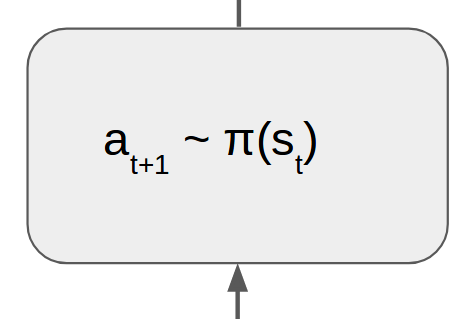
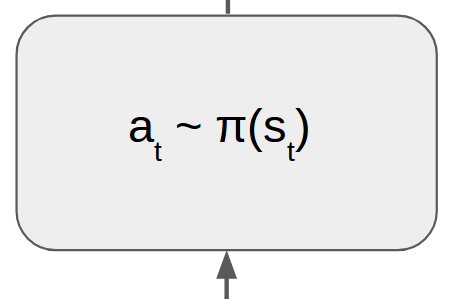
Moved sample posts, _almost_ finished first post and changed theme slightly

Changed region(s): [[0.0308, 0.0, 0.9846, 1.0], [0.3692, 0.3612, 0.6769, 0.5418], [0.2154, 0.3913, 0.3692, 0.5719]]

diff --git a/_includes/navbar.html b/_includes/navbar.html
@@ -34,12 +34,12 @@
         {% if site.theme_settings.portfolio %}
         <li class="separator">
             |
-        </li>
-        <li>
-            <a class="clear" href="{{ site.url }}{{ site.baseurl }}/portfolio">
-                Portfolio
-            </a>
-        </li>
+  <! -- </li>     -- >
+  <! --      <li>     -- >
+  <! --          <a class="clear" href="{{ site.url }}{{ site.baseurl }}/portfolio">     -- >
+  <! --              Portfolio     -- >
+  <! --          </a>     -- >
+  <! --      </li>     -- >
         {% endif %}
         {% if site.theme_settings.search %}
         <li class="separator">

diff --git a/_sass/includes/_navbar.scss b/_sass/includes/_navbar.scss
@@ -19,8 +19,8 @@
     }
 
     .avatar {
-        height: 3em;
-        width: 3em;
+        height: 5.5em;
+        width: 5em;
         float: left;
         margin-top: -13px;
         border-radius: 0.2em;
@@ -30,10 +30,10 @@
     }
 
     .site-title {
-        float: left;
+        float: center;
         font-weight: bold;
-        font-size: 1em;
-        line-height: 1.5;
+        font-size: 2em;
+        line-height: 0.5;
     }
 
     nav {

diff --git a/assets/css/style.scss b/assets/css/style.scss
@@ -29,3 +29,7 @@ figure figcaption {
    width: 50%; 
    height: 50%; 
 }
+
+.centerfigure {
+    text-align: center;
+}

diff --git a/_posts/2018-04-06-how-unity-ml-agents-approaches-markov-decision-processes.md b/_posts/2018-04-06-how-unity-ml-agents-approaches-markov-decision-processes.md
@@ -5,19 +5,20 @@ tags: [Unity, Reinforcement Learning, Markov Decision Processes]
 ---
 
 
-<p style="text-align: center; font-style: italic;">This article was written for Unity ML-agents v0.3</p>
 
-At the end of 2017, Unity released their own [module for reinforcement learning](https://blogs.unity3d.com/2017/09/19/introducing-unity-machine-learning-agents/). They call it Unity ML-agents, but really it's just about reinforcement learning agents. If you know anything about reinforcement learning, you know that the environments where agents act are modelled as [Markov Decision Processes](https://en.wikipedia.org/wiki/Markov_decision_process). Leaving the Markov property aside, the idea of an MDP is simple. There is an environment with a set of states and possible actions that transition one state to another. At every timestep $$t$$, the agent takes one of these actions which modify the environment and in turn recieves an immediate reward linked to the state and action. The goal of the agent is to maximize the cummulative reward that it recieves as it interacts with the environment.
+At the end of 2017, Unity released their own [module for reinforcement learning](https://blogs.unity3d.com/2017/09/19/introducing-unity-machine-learning-agents/). They call it Unity ML-agents, but really it's just about reinforcement learning agents. If you know anything about reinforcement learning, you know that the environments where agents act are modelled as [Markov Decision Processes](https://en.wikipedia.org/wiki/Markov_decision_process). Leaving the Markov property aside, the idea of an MDP is simple. There is an environment with a set of states and possible actions that transition one state to another. At every timestep $$t$$, the agent takes one of these actions which modify the environment and in turn recieves an immediate reward linked to that action and the state the environment was in. The goal of the agent is to maximize the cummulative reward that it recieves as it interacts with the environment.
 
-However, Unity doesn't present us with an exact concept of an MDP, at least not too clearly. This ultimately works in their favour, as it allows them to add a few levels of abstraction to the basic MDP. To name a few:  MDPs are inherently single agent (another one?). They also provide a nice enough interface to switch the controll (the brain) of an agent to the Player, the built in Unity code or to external processes. This is precisely how they allow to debug an AI using user testing, to train it with external processes, and to embed it inside the game. Pretty neat.
+<p style="text-align: center; font-style: italic;">Disclaimer: This article was written for Unity ML-agents v0.3</p>
 
-On the left hand side of the diagram below we have the classical graphical representation of an MDP. On the right hand side, we have the framework that Unity presents us with. Even though these two concepts are really similar, the transition from one to the other wasn't 100% clear to me at first. This article investigates exactly how one relates to one another. Disclaimer: this is a high-level  discussion and the level of technical depth won't be consistent.
+However, Unity doesn't present us with an exact concept of an MDP, at least not too clearly. This ultimately works in their favour, as it allows them to add a few levels of abstraction to the basic MDP. For instance, Unity supports multi agent environments, where MDPs are inherently single agent. They also provide a nice enough interface to switch the control (the brain) of an agent to the Player, the built in Unity code or to an external processes. This is precisely how they allow to debug an AI using manual testing, to train it with external processes, and to embed it inside the game. Pretty neat.
+
+On the left hand side of the diagram below we have the classical graphical representation of an MDP. On the right hand side, we have the framework that Unity presents us with. Even though these two concepts are really similar, the transition from one to the other wasn't 100% clear to me at first. This article investigates exactly how they relate to each other.
 
  
 ![mdp-and-unity]({{ site.baseurl }}/assets/img/posts/MDP-and-Unity-ml-agents.png)
 
 
-For this we need to understand what are the exact components of an MDP. We not only need to know the relation between those components, but also how they are _not_ related. We need to define their boundaries. On a world where encapsulation is a thing, knowing the realm of things is important.
+For this we need to understand what are the exact components of an MDP. We not only need to know the relation between those components, but also how they are _not_ related. On a world where encapsulation is a thing, knowing the boundaries of the components of the structures you work with is important.
 
 ## Elements of an MDP:
 ### Environment
@@ -25,43 +26,37 @@ $$P(s_{t+1} | s_t, a_t)$$
 **: Transition probability function**. It represents the probability of transitioning to state $$s_{t+t}$$ if at state $$s_t$$ the agent took action $$a_t$$. Typically a state $$s$$ is represented as a vector $$ s \in \mathbb{R}^D $$.
 
 $$R(s_t, a_t, s_{t+1})$$
-**: Reward function**. Represents the immediate reward obained by carrying out action $$a_t$$ at state $$s_t$$, changing the environment state to $$s_{t+1}$$. A reward $$r$$ is always a real valued $$r \in \mathbb{R}$$
+**: Reward function**. Represents the immediate reward obained by carrying out action $$a_t$$ at state $$s_t$$, changing the environment state to $$s_{t+1}$$. A reward $$r$$ is always a real valued $$r \in \mathbb{R}$$.
 
 ### Agent
 $$ \pi(a_t | s_t) $$ **: Policy**. The function that fully defines the agent's behaviour. A mapping from states to actions (or distributions over actions in the stochastic case, but that distiction is not important today). 
 
+<div class="centerfigure">
 <figure>
     <img src="{{ site.baseurl }}/assets/img/posts/rl-loop-equations.png" alt="my alt text"/>
     <figcaption >Reinforcement learning loop for a Markov Decision Process.</figcaption>
 </figure>
+</div>
 
 
-Given the elements of an MDP and the diagram above, we can sketch out a bit of pseudocode for an episode in an Markov decision Process.
+The classic reinforcement learning loop can be broadly defined in the following steps:
 
-## Reinforcement learning loop pseudocode algorithm
-
-1. Initialize environment and agents.<br/><br/>
-Repeat 2-5 until termination. t= 0.
-2. check for termination.
-3. Agent receives state $$s_t$$ and reward $$r_t$$
-4. Agent decides on action $$a_{t+1} = \pi(s_t)$$.
-5. Agent executes action $$a_{t+1}$$, modifying the environment.
-
-$$_t$$
++ Initialize environment and agents. Set $$ t \leftarrow 0 $$.
++ Repeat 1-5 until termination.
+1. check for termination.
+2. Agent receives state $$s_t$$ and reward $$r_t$$ from the environment.
+3. Agent decides on action $$a_t$$ using its policy $$ a_t \sim \pi(s_t)$$.
+4. Agent executes action $$a_t$$, modifying the environment.
+5. $$ t \leftarrow t+1$$.
 
 ## Elements of Unity ML-agents
 
 
 In order to differentiate between the three elements in Unity ML-agents, I'll use distinct colours to represent weather a function / property belongs to an <span class="redtag">academy</span>, <span style="color:green">brain</span> or <span style="color:blue">agent</span>.
-* <span style="color:blue">**Agent**</span>: each Agent can have a unique set of states and observations, take unique actions within the environment, and receive unique rewards for events within the environment. An agent’s actions are decided by the brain it is linked to.
-* <span style="color:green">**Brain**</span>: Each Brain defines a specific state and action space, and is responsible for deciding which actions each of its linked agents will take. As a technical note, the `Brain` class is an intermediary class between the <span style="color:red">Academy</span> and the <span style="color:blue">agents</span>. The `Brain` delegates the heavy lifting to the `CoreBrains`. These `CoreBrains` can be:
-    * `External`, which gather *state*  and *reward* information from Unity <span style="color:blue">agents</span>, send it to an external Python process which decides on an action, and then communicates that decision to all agents.
-    * `Internal`, *state* and *reward* information is gathered from agents and given to a trained RL model as input, which spits out an action that is given to the agents to execute. The key is that the model is embedded inside the Unity application. 
-    * `Player`, no information is gathered from the agents linked to the brain. The player decides on an input by herself.
-* <span style="color:red">**Academy**</span>: The Academy object within a scene also contains as children all Brains within the environment. Each environment contains a single Academy which defines the scope of the environment, in terms of:
-    * Engine Configuration – The speed and rendering quality of the game engine in both training and inference modes.
-    * Frameskip – How many engine steps to skip between each agent making a new decision.
-    * Global episode length – How long the episode will last. When reached, all agents are set to done.
+
+* <span style="color:red">**Academy**</span>: The Academy object orchestrates the whole MDP. Each environment contains a single Academy which defines the scope of the environment. There are a few environment hyperparameters that we can tune, such as the number of timesteps we want to skip before deciding on a new action or the global episode length. The <span style="color:red">academy</span> is the component that starts the execution of the final MDP.
+* <span style="color:green">**Brain**</span>: Each Brain defines a specific state and action space, and is responsible for deciding which actions each of its linked agents will take. As a technical note, the <span style="color:green">brain</span> class is an intermediary class between the <span style="color:red">academy</span> and the <span style="color:blue">agents</span>. The  <span style="color:green">brain</span> delegates the heavy lifting to the `CoreBrains`. These `CoreBrains` can be: `External`, `Internal`, or `Player`. More on these later
+* <span style="color:blue">**Agent**</span>: each Agent can have a unique set of states and observations, take unique actions within the environment, and receive unique rewards for events within the environment. An <span style="color:blue">agent</span>’s actions are decided by the <span style="color:green">brain</span> it is linked to.
 
 
 ## Dwelving into the code
@@ -75,7 +70,7 @@ First, we will open the <span style="color:red">`Academy.cs`</span> file. Notice
 
 {% highlight c# %}
 
-// The FixxedUpdate() method, snippet from Academy.cs
+// The FixedUpdate() method, snippet from Academy.cs
 void FixedUpdate() {
    if (acceptingSteps) // Makes sure the Academy has finished initialization
    {
@@ -90,7 +85,7 @@ void FixedUpdate() {
 
 // (Simplified!) snippet from Academy.cs
 void RunMDP() {
-    // Initialization code
+    // Academy, brain and agent initialization code
     if (skippingFrames) { // Is it time to act or use same action
         Step()
         DecideAction()
@@ -99,20 +94,23 @@ void RunMDP() {
     brain.Step()
 }
 {% endhighlight %}
-The <span style="color:red">`skippingFrames`</span> boolean present inside the `if` statement depends on the <span style="color:red">academy</span> hyperparameter <span style="color:red">`framesToSkip`</span>, which represents the number of frames that the <span style="color:red">academy</span> will wait per call to <span style="color:red">`Step()`</span> and <span style="color:red">`DecideAction()`</span>. However, the user defined function <span style="color:red">`AcademyStep()`</span> and the  <span style="color:green">brain</span> function <span style="color:green">`Step()`</span> will be called on *every* timestep. <span style="color:green">`Step()`</span> invokes agent's <span style="color:blue">`AgentStep()`</span> function, which carries out the last computed action. This means that an action computed inside <span style="color:red">`DecideAction()`</span> will be carried out for <span style="color:red">`skippingFrames`</span> consecutive timesteps, but the decision on what action to take happens every <span style="color:red">`framesToSkip`</span> timesteps. The name <span style="color:red">`framesToSkip`</span> is not great, perhaps a better alternative would be <span style="color:red">`framesBeforeDecisionPoint`</span>.
+
+The <span style="color:red">`skippingFrames`</span> boolean present inside the `if` statement depends on the <span style="color:red">academy</span> hyperparameter <span style="color:red">`framesToSkip`</span>, which represents the number of frames that the <span style="color:red">academy</span> will wait per call to <span style="color:red">`Step()`</span> and <span style="color:red">`DecideAction()`</span>. However, the user defined function <span style="color:red">`AcademyStep()`</span> and the  <span style="color:green">brain</span> function <span style="color:green">`Step()`</span> will be called on *every* timestep. <span style="color:green">`Step()`</span> invokes agent's <span style="color:blue">`AgentStep()`</span> function, which carries out the last computed action. This means that an action computed inside <span style="color:red">`DecideAction()`</span> will be repeated during <span style="color:red">`framesToSkip`</span> consecutive timesteps, but the decision on what action to take happens every <span style="color:red">`framesToSkip`</span> timesteps. The name <span style="color:red">`framesToSkip`</span> is not great, perhaps a better alternative would be <span style="color:red">`framesBeforeDecisionPoint`</span>.
 
 As a side note, this constraint of taking an action per timestep is what differentiates a Markov Decision Process from a Semi-Markov Decision Process (SMDP).
 
 The <span style="color:red">`Step()`</span> function is responsible for various things. On the side, it resets any agent that has finished an episode and sets the reward for that timestep to `0`. Most importantly, it calls the <span style="color:red">`SendState()`</span> function.
 
-<figure class="image-right">
+<div class="centerfigure">
+<figure>
     <img src="{{ site.baseurl }}/assets/img/posts/s-r.png" alt="my alt text"/>
     <figcaption >Reward and state going from environment to agent.</figcaption>
 </figure>
-<figure class="image-right">
+</div>
+<figure>
     {% highlight c# %}
 
-    // Sinnpet from Brain.cs
+    // Snippet from Brain.cs
     public void SendState()
     {
         coreBrain.SendState();
@@ -122,55 +120,41 @@ The <span style="color:red">`Step()`</span> function is responsible for various 
     <figcaption >Reward and state going from environment to agent.</figcaption>
 </figure>
 
-The functionality of <span class="redtag">`SendState()`</span> is analogous to the bottom arrow on the MDP diagram, the one that carries $$ r_t $$ and $$ s_t $$ from the environment over to the agent. The exact implementation of <span style="color:green">`SendState()`</span> (yes, in green, as the academy forwards the call to a <span style="color:green">brain</span> function with the same name) depends on the type of `CoreBrain` being used (`External`, `Internal` or `Player`). But the basic idea is that the <span style="color:blue">agent</span> function <span style="color:blue">`CollectState()`</span> is invoked, which collects the state from the environment. In `C#` terms, the state is represented as a `List<float>`. Remember how we defined a state $$ s $$ as $$ s \in \mathbb{R}^D $$? It is important to iterate the fact that the agent does not receive an state $$ s_t $$ per timestep $$ t $$. The agent *collects* it in the function <span style="color:blue">`CollectState()`</span>, it is not handed over by the environment in the same way it would in a classical MDP scenario. This may seem cumbersome, but it becomes handy when you have different agents in the scene, each one recording different values from the environment. Essentially allowing for different MDPs to be created from a single environment. It also allows the agent to pick and choose whichever elements from the environment that it wants, and leave out other parts it considers irrelevant. The function <span style="color:blue">`CollectState()`</span> is defined by the user.
+The functionality of <span class="redtag">`SendState()`</span> is analogous to the bottom arrow on the MDP diagram, the one that carries $$ r_t $$ and $$ s_t $$ from the environment over to the agent. The exact implementation of <span style="color:green">`SendState()`</span> (yes, in green, as the academy forwards the call to a <span style="color:green">brain</span> function with the same name) depends on the type of `CoreBrain` being used (`External`, `Internal` or `Player`). But the basic idea is that the <span style="color:blue">agent</span> function <span style="color:blue">`CollectState()`</span> is invoked, which collects the state from the environment. In `C#` terms, the state is represented as a `List<float>`. Remember how we defined a state $$ s $$ as $$ s \in \mathbb{R}^D $$? It is important to iterate the fact that the agent does not receive an state $$ s_t $$ per timestep $$ t $$. The agent *collects* it in the function <span style="color:blue">`CollectState()`</span>, it is not handed over by the environment in the same way it would in a classical MDP scenario. This may seem cumbersome, but it becomes handy when you have different agents in the scene, each one recording different values from the environment. Essentially allowing for different MDPs to be created from a single environment. It also allows the agent to pick and choose whichever elements from the environment it wants, and leave out other parts it considers irrelevant. The function <span style="color:blue">`CollectState()`</span> is defined by the user.
 
-The reward is then collected by the <span style="color:green">brain</span> function <span style="color:green">`CollectRewards()`</span> which merely retreives the value inside the <span style="color:blue">agent</span> variable <span style="color:blue">`agent.reward`</span>, computed in the previous iteration. Recall that <span style="color:blue">`agent.reward`</span> is set to `0` inside <span style="color:red">`Step()`</span>. Now we have a state-reward pair $$ (s_t, r_t) $$ and we are ready to use the policy $$ \pi $$ to compute the next action!
+The reward for that timestep is then collected by the <span style="color:green">brain</span> function <span style="color:green">`CollectRewards()`</span> which merely retreives the value inside the <span style="color:blue">agent</span> variable <span style="color:blue">`agent.reward`</span>, computed in the previous iteration. Recall that <span style="color:blue">`agent.reward`</span> is set to `0` inside <span style="color:red">`Step()`</span>. Don't forget that the reward is only reset when it's time to decide on a new action to take. Now we have a state-reward pair $$ (s_t, r_t) $$ and we are ready to use the policy $$ \pi $$ to compute the next action!
 
-<figure class="image-left">
-    <img class="resizedImage" src="{{ site.baseurl }}/assets/img/posts/agent-box.png" alt="my alt text"/>
+<div class="centerfigure">
+<figure>
+    <img src="{{ site.baseurl }}/assets/img/posts/agent-box.png" alt="my alt text"/>
+    <figcaption> The agent decides on an action by sampling from its policy.</figcaption>
 </figure>
-We now move to the left hand side box of the MDP diagram, the one containing the <span style="color:blue">agent's</span> policy. We want to sample the next action to be taken: $$ a_{t+1} \sim \pi(s_t) $$. This process begins with the <span style="color:red">`academy`</span> invoking the <span style="color:red">`DecideAction()`</span> function. This call triggers a further call to the <span style="color:green">brain</span>'s <span style="color:green">`DecideAction()`</span> function whose implementation, again, depends on the type of `CoreBrain`. For `External`, the action $$a_t$$ is retrieved from an external process to which Unity has given the current state $$s_t$$, reward $$r_t$$ and other meaningful environment information. For `Internal`, Unity takes the current state $$s_t$$ and inputs it to a trained TensorFlow model. After running a forward pass through the model, the action $$a_t$$ is sampled from the output layer of the model (Assumming the model is a neural network). Finally, for a `Player` `CoreBrain`, the action is taken directly from user input, simples!.
+</div>
 
-By now we have essentially sampled an action from the agent's policy, $$ a_{t+1} \sim \pi(s_t) $$. The sampled action is sent from the <span style="color:green">brain</span> to the <span style="color:blue">agent</span> by calling <span style="color:green">`SendAction()`</span>, which invokes <span style="color:blue">`UpdateAction()`</span> storing the action inside the <span style="color:blue">`agent.StoredAction`</span> property. This property will serve as input to <span style="color:blue">`AgentStep()`</span>, but let's not get ahead of ourselves.
+We now move to the left hand side box of the MDP diagram, the one containing the <span style="color:blue">agent's</span> policy. We want to sample the next action to be taken: $$ a_t \sim \pi(s_t) $$. This process begins with the <span style="color:red">`academy`</span> invoking the <span style="color:red">`DecideAction()`</span> function. This call triggers a further call to the <span style="color:green">brain</span>'s <span style="color:green">`DecideAction()`</span> function whose implementation, again, depends on the type of `CoreBrain`. For `External`, the action $$a_t$$ is retrieved from an external process to which Unity has given the current state $$s_t$$, reward $$r_t$$ among other meaningful environment information. For `Internal`, Unity takes the current state $$s_t$$ and inputs it to a trained TensorFlow model. After running a forward pass through the model, the action $$a_t$$ is sampled from the output layer of the model (Assumming the model is a neural network). Finally, for a `Player` `CoreBrain`, the action is taken directly from user input, simples!.
 
-<figure class="image-right">
+By now we have essentially sampled an action from the agent's policy, $$ a_t \sim \pi(s_t) $$. The sampled action is sent from the <span style="color:green">brain</span> to the <span style="color:blue">agent</span> by calling <span style="color:green">`SendAction()`</span>, which invokes <span style="color:blue">`UpdateAction()`</span> storing the action inside the <span style="color:blue">`agent.StoredAction`</span> property. This property will serve as input to <span style="color:blue">`AgentStep()`</span>, but let's not get ahead of ourselves.
+
+<div class="centerfigure">
+<figure >
     <img src="{{ site.baseurl }}/assets/img/posts/environment-box.png" alt="my alt text"/>
-    <figcaption ></figcaption>
+    <figcaption> Based on its current state and the agent's next action, the environment transitions to a new state and computes a reward based on these three elements.</figcaption>
 </figure>
-We now arrive at the right hand side box of the classical MDP diagram, the one that samples an state $$ s_{t+1} $$ from the transition probability function $$P$$ and calculates a reward $$r_{t+1}$$ using $$R$$. The last piece of the puzzle.
+</div>
+We now arrive at the right hand side box of the classical MDP diagram, the one that samples an state $$ s_{t+1} $$ from the transition probability function $$P$$ and calculates a reward $$r_{t+1}$$ using the reward function $$R$$. The last piece of the puzzle.
 
-It isn't until now that the user (you) has some agency over the architechture of the MDP. It is now the turn of the user defined <span style="color:red">`AcademyStep()`</span> function. What is it's purpose? Well, the <span style="color:red">`AcademyStep()`</span> function should be use as part of the transition probability function $$ P(s_{t+1} \mid s_t, a_t) $$. It should encapsulate the part of the transition $$ s_t \to s_{t+1} $$ which is independent of the action $$a_t$$, whatever $$a_t$$ may be. The part of the transition that depends on $$a_t$$ should be encapsulated inside <span style="color:blue">`AgentStep()`</span>.
+Let's go back to the the code snippet from <span style="color:red">`Academy.cs`</span> featuring the function <span style="color:red">`RunMdp()`</span>. After the `if` statement, the function <span style="color:red">`AcademyStep()`</span> is invoked, followed by a call to <span style="color:green">`Step()`</span>. Trust me when I say that <span style="color:green">`Step()`</span> eventually reaches a call to the user defined <span style="color:blue">`AgentStep()`</span> with $$a_t$$ as an input. These two functions are the Unity ML-agents equivalent of the transition probability function $$P$$. 
 
+The behaviour and implementation of the transition probabillity function $$P$$ is split between the two user defined functions <span style="color:red">`AcademyStep()`</span> and <span style="color:blue">`AgentStep()`</span>. These functions preceed one another. First, <span style="color:red">`AcademyStep()`</span> is called, then <span style="color:blue">`AgentStep()`</span> follows. <span style="color:red">`AcademyStep()`</span> should handle the changes of the transition from state $$s_t$$ to $$s_{t+1}$$ that are independent from the action $$a_t$$. This is because <span style="color:red">`AcademyStep()`</span> has no access to $$a_t$$. The part of the transition that depends on $$a_t$$ should be encapsulated inside <span style="color:blue">`AgentStep()`</span>. 
 
- Here lies a conceptual difference between the classical MDP definition and Unity's take on it. On the classical MDP definition, the agent sends an action $$ a_t $$ to the environment, and the environment carries $$ a_t$$ out, calculating the reward associated to it. In Unity, this task corresponds to the <span style="color:blue">agent</span>. Specifically, it corresponds to the user defined function  <span style="color:blue">`AgentStep()`</span>.
+Here lies a conceptual difference between the classical MDP definition and Unity's take on it. On the classical MDP definition, the agent sends an action $$ a_t $$ to the environment, and the environment carries $$ a_t$$ out, calculating the reward associated to it. In Unity, this task partially corresponds to the <span style="color:blue">agent</span>. Specifically, it corresponds to the user defined function  <span style="color:blue">`AgentStep()`</span>.
 
-{% highlight c# %}
+Finally, the behaviour and implementation of the reward function $$R$$ follows a similar approach to the transition probability function $$P$$. It lives in both <span style="color:red">`AcademyStep()`</span> and <span style="color:blue">`AgentStep()`</span>. The part of the reward that depends purely on state $$s_t$$ should stay inside <span style="color:red">`AcademyStep()`</span>. The behaviour that is dependent on $$a_t$$ can be implemented anywhere inside <span style="color:blue">`AgentStep()`</span>. Lastly, there may be some part of the reward function dependent on the resulting state $$s_{t+1}$$ that originates after performing action $$a_t$$ on state $$s_t$$. This part of the reward function should still be implemented inside <span style="color:blue">`AgentStep()`</span>, after all the code that deals with the probability transition function $$P$$ is executed. Any reward modification should increase or decrease the value inside <span style="color:blue">`agent.reward`</span>.
 
-public virtual void AgentStep(float[] action)
-{
-    // Logic for:
-    //       - Transition Function P
-    //       - Reward Function R
-}
+Unity allows the user to implement the transition probability and reward functions anywhere in the code. Let's say that, inside <span style="color:blue">`CollectState()`</span>, the agent records the coordinates of all objects in the scene. On top of that, let these objects move according whatever behaviour that lives inside their own `FixedUpdate()` method. This means that the behaviour of the transition function $$P$$ is not fully encapsulated inside <span style="color:red">`RunMdp()`</span>. Even though this is fine for most scenarios, it makes model-based RL or search-based algorithms much more complicated. Especially for the latter, as these algorithms rely on having a model that they can use to simulate the environment really fast. A model is no more than both $$P$$ and $$R$$ functions. If the behaviour of the environment lives somewhere in the code whose behaviour cannot be simulated quickly, then all our favourite MCTS algorithms are useless! The same could be said about the reward function $$R$$.
 
-{% endhighlight %}
-
+## Conclusion
 
 Here's a similar diagram analogous to the classical MDP one presented above, but with color coded function calls instead of mathematical operations. If you've understood the contents of this article, hopefully you can use this final diagram for your future work with the **fun**tastic Unity ML-agents module!
 
 ![unity-rl-loop]({{ site.baseurl}}/assets/img/posts/unity-rl-loop.png)
-
-## Bonus: Some questions and some answers.
-
-Here are some questions that came through my head as I was doing the research for this article.
-#### *Why is the reward stored in a class field and the state is retreived from a function?*
-
-If we the <span style="color:green">`Brain`</span> sent a decision (an action) to the <span style="color:blue">`Agent`</span> at every timestep, then it could make sense to either keep both reward and state as a class field, or both as a function. It isn't a good coding practice to keep two concepts at the same conceptual level at different levels of accessibility (fix). However, notice that the brain function <span style="color:green">`Step()`</span> is called regardless of whether there is a new action to be carried out. This means that an action needs to be taken at every timestep. Therefore it makes sense to keep the reward as a field, which we add to after performing an action on every frame: <span style="color:blue">agent.reward</span> += $$\mathbb{R}(s_t, a_t, s_{t+1}) $$. (specify that the state only needs to be collected on demand, thus keeping in in a function makes more sense that changing the value of a field on evey frame?)
-
-
-## Notes
-* I like the fact that for a Player Core Brain, the agent's function CollectState() is completely ignored
-* The reward function and the reward transition function lives inside <span style="color:blue">`AgentStep()`</span>.
-* The transition function $$ P(s_{t+1} \mid s_t, a_t) $$ lives partially in <span style="color:red">`AcademyStep()`</span> and <span style="color:blue">`AgentStep()`</span>. This isn't ideal.
-* The reward function $$ R(s_t, a_t, s_{t+1}) $$ should live inside <span style="color:blue">`AgentStep()`</span>.
-* The action is computed, but not executed. It is up to the user to implemnt AgentStep in such a way that the action is executed in the environment.

diff --git a/pages/about.md b/pages/about.md
@@ -3,12 +3,15 @@ layout: page
 title: About
 permalink: /about/
 feature-img: "assets/img/pexels/circuit.jpeg"
-tags: [About, Test]
 ---
 
-Type on Strap is based on Type Theme, a free and open-source theme for [Jekyll](http://jekyllrb.com/), licensed under the MIT License.
+I am Daniel Hernandez Perez! A PhD student at the University of York, UK. I specialize in Reinforcement Learning applied to video games. My research dwells on multi agent reinforcement learning and search based methods, such as Monte Carlo Tree Search.
 
-Head over to the [theme's documentation](https://github.io/sylhare/Type-on-Strap) for much more information about Type on Strap or to install this theme on your own Jekyll site.
+I am also part of the [IGGI PhD programme](http://www.iggi.org.uk/) and [Digital Creativity Labs](https://www.digitalcreativity.ac.uk/)
 
-This file is an example of a page in Jekyll, that automatically shows up in the header navigation, you can delete or modify this file freely.
- 
+<figure class="image-left">
+    <img src="{{ site.baseurl }}/assets/img/about/iggi.jpg" alt="my alt text"/>
+</figure>
+<figure>
+    <img src="{{ site.baseurl }}/assets/img/about/dc-labs.jpg" alt="my alt text"/>
+</figure>
